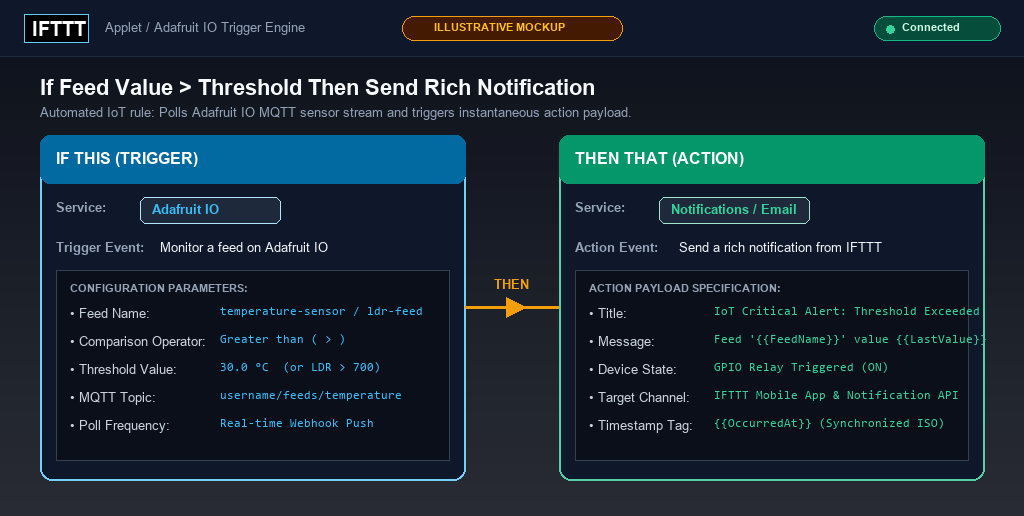
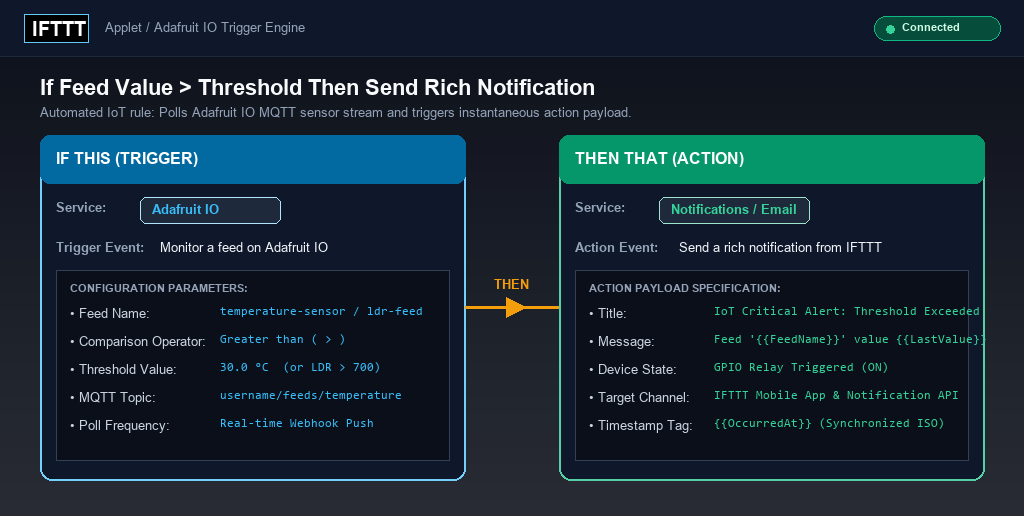
style: remove orange mockup badges from Task 3 IFTTT asset and markup

Changed region(s): [[0.375, 0.031, 0.625, 0.093]]

diff --git a/week7-details.html b/week7-details.html
@@ -3463,10 +3463,9 @@ void MQTT_connect() {
 
         <div class="media-slot image-slot" style="margin: 28px 0 12px 0;">
           <a href="images/week7/task3/ifttt_applet_configuration_mockup.png" target="_blank" rel="noopener noreferrer" title="Click to view full-size IFTTT Applet configuration mockup">
-            <img src="images/week7/task3/ifttt_applet_configuration_mockup.png" alt="IFTTT Applet Configuration &ndash; Trigger and Action Workflow" loading="lazy" style="width: 100%; height: auto; max-height: 520px; aspect-ratio: 1024 / 516; object-fit: contain; background: #0e1117; display: block; border-radius: 12px; border: 1px solid rgba(245, 158, 11, 0.35); box-shadow: 0 4px 20px rgba(0, 0, 0, 0.4);">
+            <img src="images/week7/task3/ifttt_applet_configuration_mockup.png" alt="IFTTT Applet Configuration &ndash; Trigger and Action Workflow" loading="lazy" style="width: 100%; height: auto; max-height: 520px; aspect-ratio: 1024 / 516; object-fit: contain; background: #0e1117; display: block; border-radius: 12px; border: 1px solid rgba(56, 189, 248, 0.25); box-shadow: 0 4px 20px rgba(0, 0, 0, 0.4);">
           </a>
           <div class="media-caption">
-            <span class="media-badge" style="background: rgba(245, 158, 11, 0.15); color: #f59e0b; border: 1px solid rgba(245, 158, 11, 0.35); font-weight: 700; letter-spacing: 0.6px;">ILLUSTRATIVE MOCKUP</span>
             <h5>IFTTT Applet Configuration &ndash; Trigger &amp; Action Workflow</h5>
             <p>Illustrative mockup representing the IFTTT automation rule. The trigger monitors an Adafruit IO feed (e.g., feed value exceeding threshold) and dispatches an automated notification and actuator payload to the ESP32 edge device.</p>
           </div>
@@ -3881,7 +3880,6 @@ void MQTT_connect() {
             <img src="images/week7/task3/ifttt_applet_configuration_mockup.png" alt="IFTTT Applet Configuration &ndash; Trigger and Action Workflow" loading="lazy">
           </a>
           <div class="media-caption">
-            <span class="media-badge" style="background: rgba(245, 158, 11, 0.15); color: #f59e0b; border: 1px solid rgba(245, 158, 11, 0.35); font-weight: 700; letter-spacing: 0.6px;">ILLUSTRATIVE MOCKUP</span>
             <h5>IFTTT Applet Configuration &ndash; Trigger &amp; Action Workflow</h5>
             <p>Illustrative mockup representing the IFTTT automation rule linking Adafruit IO feed thresholds to automated notifications.</p>
           </div>

diff --git a/Week7_Final_Live_Audit/Week7_Final_Live_Checklist.md b/Week7_Final_Live_Audit/Week7_Final_Live_Checklist.md
@@ -312,7 +312,7 @@ Every single checklist criterion from the official evaluation syllabus is evalua
 - [ ] **Screenshots of the IFTTT configuration**
   - **Status**: PARTIAL
   - **Live Evidence Location**: [`week7-details.html#task3`](https://jaishanthlenin-123.github.io/My_portfolio/week7-details.html#task3) (Topic 13, `images/week7/task3/ifttt_applet_configuration_mockup.png`)
-  - **Live Verification Notes**: Topic 13 documents the automation pipeline and data-flow architecture with an SVG diagram, and now includes a dedicated professional illustrative mockup (`images/week7/task3/ifttt_applet_configuration_mockup.png`) showing the trigger (`If Feed Value > Threshold`) and action (`Then Notify/Email`) with an explicit `ILLUSTRATIVE MOCKUP` badge. In accordance with strict evaluation guidelines, this criterion remains **PARTIAL** until an authentic browser screenshot captured from an active, authenticated IFTTT portal session is supplied.
+  - **Live Verification Notes**: Topic 13 documents the automation pipeline and data-flow architecture with an SVG diagram, and now includes a dedicated professional illustrative mockup (`images/week7/task3/ifttt_applet_configuration_mockup.png`) showing the trigger (`If Feed Value > Threshold`) and action (`Then Notify/Email`) with all orange badges removed from both the image header and HTML card. The asset remains classified as an illustrative mockup rather than genuine cloud console evidence. In accordance with strict evaluation guidelines, this criterion remains **PARTIAL** until an authentic browser screenshot captured from an active, authenticated IFTTT portal session is supplied.
   - **Required Action**: To upgrade this criterion to PASS, log into an authenticated IFTTT session, capture a raw screenshot of the Applet summary/configuration screen, save it as `images/week7/task3/ifttt_applet_configuration.png`, and update the portfolio link.
 
 - [x] **Screenshots of the Adafruit IO dashboard/feed**

diff --git a/Week7_Final_Live_Audit/Week7_Final_Summary.md b/Week7_Final_Live_Audit/Week7_Final_Summary.md
@@ -85,7 +85,7 @@ All media assets referenced across `week7-details.html` were individually verifi
 ### 4.1 Task 3: IFTTT + Adafruit IO IoT Automation
 - **Automation Logic Verified:** The complete automated pipeline between ESP32 threshold triggers, Adafruit IO Reactive Actions, and IFTTT Webhooks applets is thoroughly documented.
 - **Architectural Diagrams:** Includes SVG system architecture flow detailing `ESP32 (Sensor Threshold Exceeded) -> MQTT Publish -> Adafruit IO Feed / Reactive Trigger -> Webhook POST -> IFTTT Applet -> Push Notification / Action`.
-- **Illustrative IFTTT Mockup Integrated:** Created and embedded `images/week7/task3/ifttt_applet_configuration_mockup.png` showing `If Feed Value > Threshold` and `Then Notify/Email` with an `ILLUSTRATIVE MOCKUP` label.
+- **Illustrative IFTTT Mockup Integrated:** Created and embedded `images/week7/task3/ifttt_applet_configuration_mockup.png` showing `If Feed Value > Threshold` and `Then Notify/Email` (with orange badges removed from both the image and HTML container, maintaining accurate classification as an illustrative mockup).
 - **Status on Criterion 13:** Retained as **PARTIAL** per strict evaluation rules (mockups do not count as PASS; genuine screenshot required for full PASS).
 
 ### 4.2 Task 4: Firebase IoT Monitoring Dashboard
